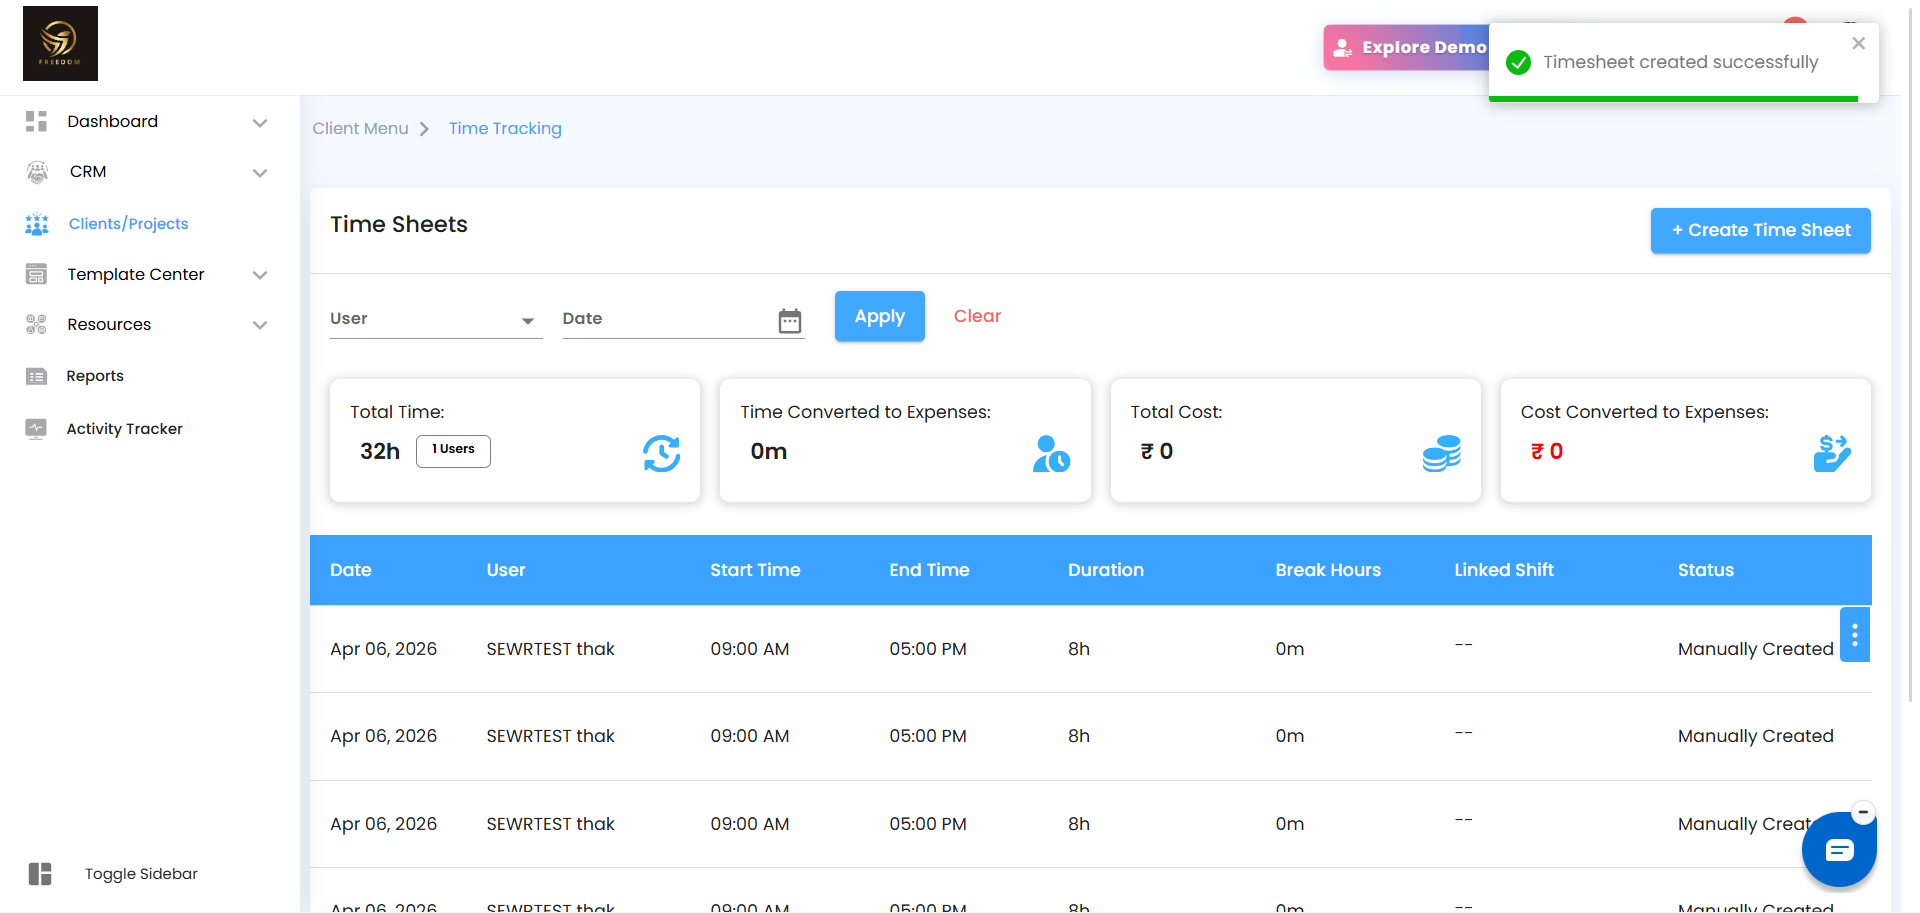
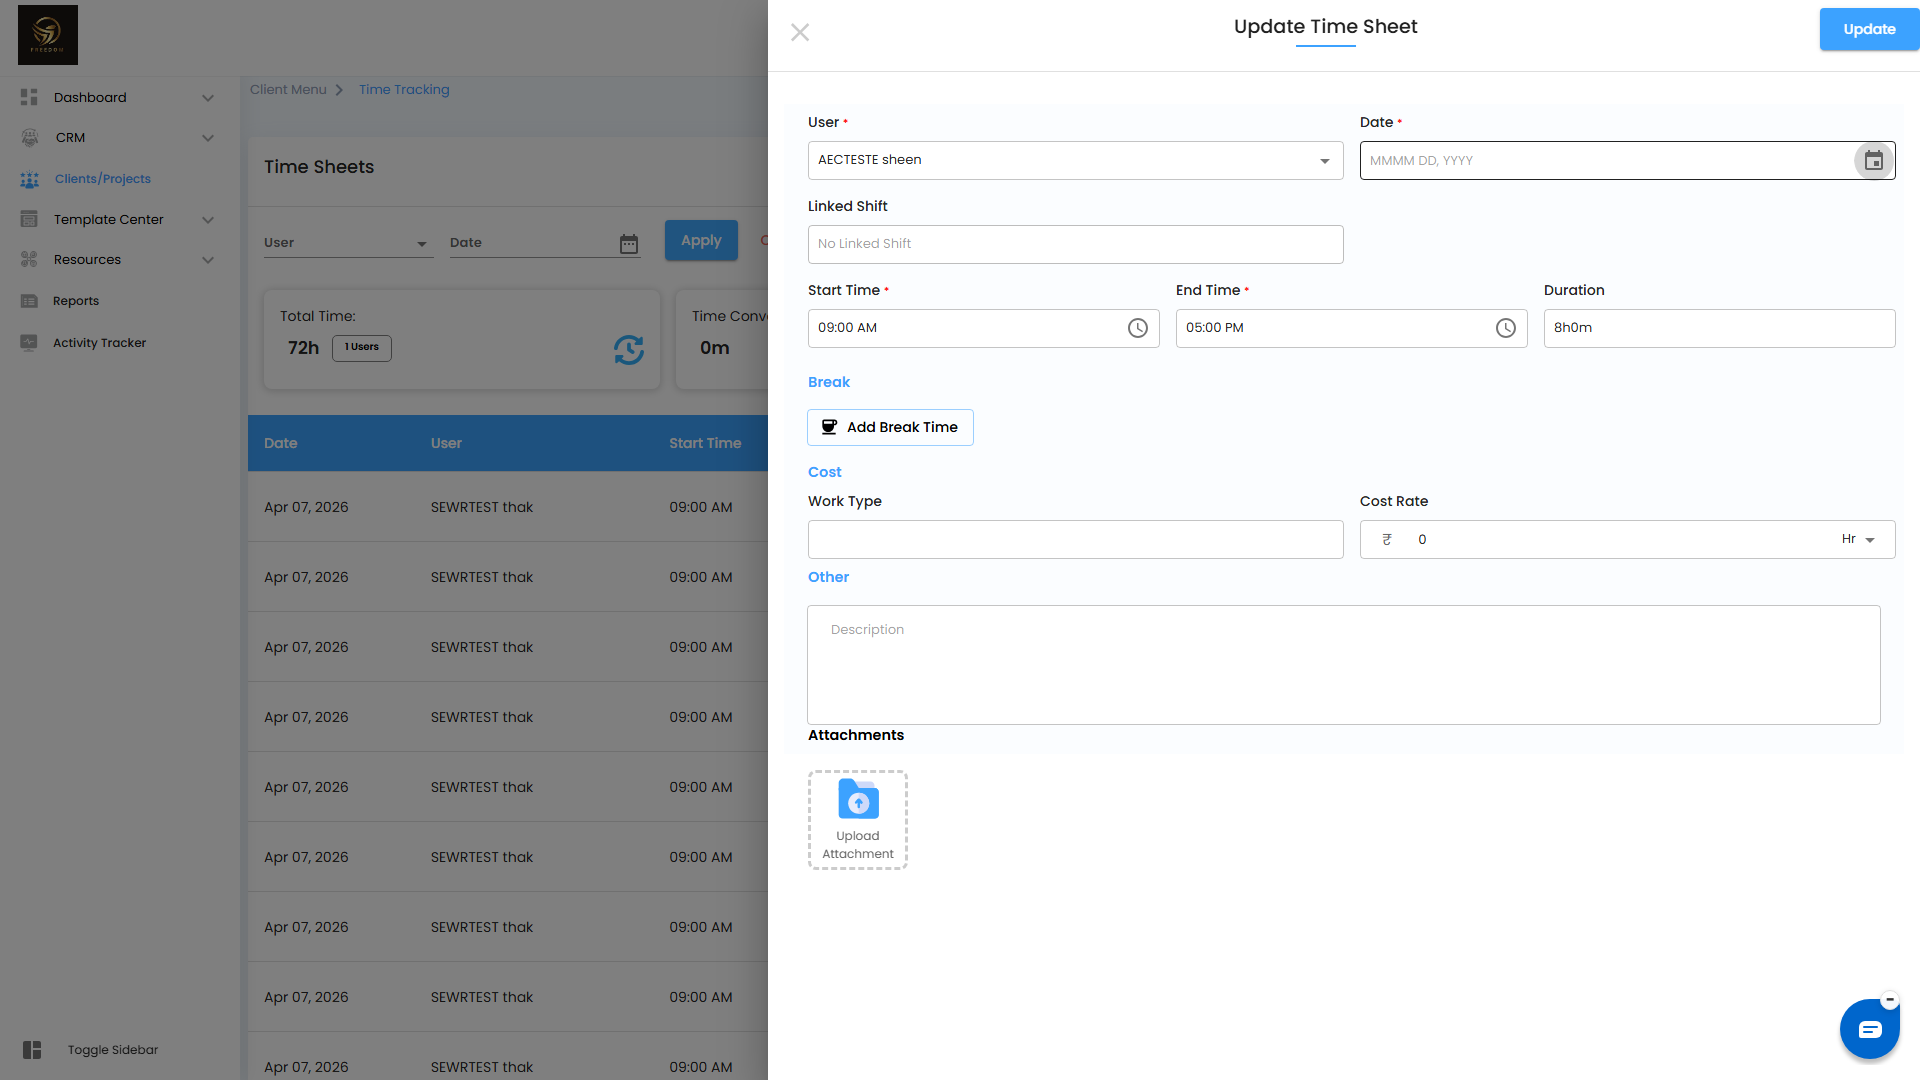
refactor: streamline timesheet editing and update test configurations
- Removed redundant test commands from package.json related to purchase orders.
- Updated the edit_timesheet.feature to clarify the steps for editing a timesheet.
- Enhanced TimeTrackingPage.js with improved selectors for date and time inputs.
- Modified hooks.js to adjust timeout settings and implement screenshot capture on test failures.
- Updated the screenshot for the timesheet editing scenario to reflect recent changes.

diff --git a/pages/admin/projects/managements/timetracking/TimeTrackingPage.js b/pages/admin/projects/managements/timetracking/TimeTrackingPage.js
@@ -25,28 +25,53 @@ class TimeTrackingPage extends BasePage {
 
     // Mandatory fields inside the drawer
     this.productInfoSection = page.locator('section[id="product information"]').first();
-    // User – MUI Select combobox (role="combobox" inside the drawer)
+    // User – MUI Select combobox (role="combobox" inside the section)
     this.userDropdown = this.productInfoSection.locator('[role="combobox"]').first();
-    this.dateInput = page
+
+    // Date/Time inputs can differ between Create drawer vs Edit view (label wiring / aria-labels differ),
+    // so prefer label-based selectors scoped to the section and fall back to the original xpath.
+    const dateByLabel = this.productInfoSection
+      .getByLabel(/date/i)
+      .or(this.productInfoSection.locator('input[name*="date" i], input[id*="date" i]'))
+      .first();
+    const dateByXpath = page
       .locator(
         'xpath=//section[@id="product information"]//*[self::label or self::p or self::span][contains(normalize-space(.),"Date")]/following::input[1]'
       )
       .first();
-    this.startTimeInput = page
+    this.dateInput = dateByLabel.or(dateByXpath).first();
+
+    const startByLabel = this.productInfoSection
+      .getByLabel(/start\s*time/i)
+      .or(this.productInfoSection.locator('input[name*="start" i][type="time"], input[id*="start" i]'))
+      .first();
+    const startByXpath = page
       .locator(
         'xpath=//section[@id="product information"]//*[self::label or self::p or self::span][contains(normalize-space(.),"Start Time")]/following::input[1]'
       )
       .first();
-    this.endTimeInput = page
+    this.startTimeInput = startByLabel.or(startByXpath).first();
+
+    const endByLabel = this.productInfoSection
+      .getByLabel(/end\s*time/i)
+      .or(this.productInfoSection.locator('input[name*="end" i][type="time"], input[id*="end" i]'))
+      .first();
+    const endByXpath = page
       .locator(
         'xpath=//section[@id="product information"]//*[self::label or self::p or self::span][contains(normalize-space(.),"End Time")]/following::input[1]'
       )
       .first();
-    this.datePickerButton = page
+    this.endTimeInput = endByLabel.or(endByXpath).first();
+
+    const dateBtnByAria = this.productInfoSection
+      .locator('button[aria-label*="date" i], button[title*="date" i]')
+      .first();
+    const dateBtnByXpath = page
       .locator(
-        'xpath=//section[@id="product information"]//*[self::label or self::p or self::span][contains(normalize-space(.),"Date")]/following::button[@aria-label="Choose date"][1]'
+        'xpath=//section[@id="product information"]//*[self::label or self::p or self::span][contains(normalize-space(.),"Date")]/following::button[contains(translate(@aria-label,"ABCDEFGHIJKLMNOPQRSTUVWXYZ","abcdefghijklmnopqrstuvwxyz"),"date")][1]'
       )
       .first();
+    this.datePickerButton = dateBtnByAria.or(dateBtnByXpath).first();
 
     // Title of the drawer that opens after selection
     this.drawerTitle = page.locator('h6:has-text("Create Time Sheet")').first();
@@ -62,7 +87,16 @@ class TimeTrackingPage extends BasePage {
 
     // --- Edit / detail (after opening a row) ---
     this.timesheetTableRows = page.locator('tbody tr');
+    this.rowActionButton = page
+      .locator('tbody tr')
+      .first()
+      .locator('button')
+      .last();
     this.actionMenu = page.locator('[role="menu"]').first();
+    this.editMenuItem = page
+      .getByRole('menuitem', { name: /^edit$/i })
+      .or(page.locator('[role="menu"] [role="menuitem"]').filter({ hasText: /^edit$/i }))
+      .first();
     this.saveOrUpdateButton = page
       .getByRole('button', { name: /save|update|apply/i })
       .or(page.locator('.boqUI button.btnPrimaryUI:has-text("Save"), button.btnPrimaryUI:has-text("Update")'))
@@ -82,6 +116,24 @@ class TimeTrackingPage extends BasePage {
     await locator.scrollIntoViewIfNeeded().catch(() => {});
 
     const input = locator.first();
+    const readCurrent = async () => {
+      const v1 = await input.inputValue().catch(() => '');
+      if (v1 && v1.trim()) return v1;
+      const v2 = await input.getAttribute('value').catch(() => '');
+      return (v2 || '').trim();
+    };
+    const normalizeAltDate = async (nextValue) => {
+      const type = ((await input.getAttribute('type').catch(() => '')) || '').toLowerCase();
+      if (type === 'date' && /^\d{2}\/\d{2}\/\d{4}$/.test(nextValue)) {
+        const [mm, dd, yyyy] = nextValue.split('/');
+        return `${yyyy}-${mm}-${dd}`;
+      }
+      if (type !== 'date' && /^\d{4}-\d{2}-\d{2}$/.test(nextValue)) {
+        const [yyyy, mm, dd] = nextValue.split('-');
+        return `${mm}/${dd}/${yyyy}`;
+      }
+      return null;
+    };
     const setByDom = async () => {
       await input.evaluate((el, nextValue) => {
         const nativeInputValueSetter = Object.getOwnPropertyDescriptor(
@@ -89,7 +141,7 @@ class TimeTrackingPage extends BasePage {
           'value'
         )?.set;
         nativeInputValueSetter?.call(el, nextValue);
-        el.dispatchEvent(new InputEvent('input', { bubbles: true, data: nextValue }));
+        el.dispatchEvent(new Event('input', { bubbles: true }));
         el.dispatchEvent(new Event('change', { bubbles: true }));
         el.dispatchEvent(new Event('blur', { bubbles: true }));
       }, value);
@@ -99,23 +151,24 @@ class TimeTrackingPage extends BasePage {
       await input.click({ force: true });
       await input.press('Control+A').catch(() => {});
       await input.fill(value);
+      await input.press('Enter').catch(() => {});
       await input.press('Tab').catch(() => {});
     } catch {
       await setByDom();
     }
 
-    let current = await input.inputValue().catch(() => '');
-    let domVal = await input.evaluate((el) => (el && 'value' in el ? el.value : '') || '').catch(() => '');
-    if (current.trim().length === 0 && String(domVal).trim().length === 0) {
-      await setByDom();
-      current = await input.inputValue().catch(() => '');
-      domVal = await input.evaluate((el) => (el && 'value' in el ? el.value : '') || '').catch(() => '');
-    }
-
     await expect(async () => {
-      const c = await input.inputValue().catch(() => '');
-      const d = await input.evaluate((el) => (el && 'value' in el ? el.value : '') || '').catch(() => '');
-      expect(c.trim().length > 0 || String(d).trim().length > 0).toBeTruthy();
+      const current = await readCurrent();
+      if (current.trim().length > 0) return;
+
+      const alt = await normalizeAltDate(value);
+      if (alt) {
+        await setByDom(alt);
+        const afterAlt = await readCurrent();
+        expect(afterAlt.trim().length).toBeGreaterThan(0);
+        return;
+      }
+      expect(current.trim().length).toBeGreaterThan(0);
     }).toPass({ timeout: 10000, intervals: [300, 700, 1200] });
   }
 
@@ -148,39 +201,21 @@ class TimeTrackingPage extends BasePage {
   }
 
   async tryPickDateFromCalendar(targetDate) {
-    const openCalendar = async () => {
-      if (await this.datePickerButton.isVisible().catch(() => false)) {
-        await this.datePickerButton.click().catch(() => {});
-        return true;
-      }
-      if (await this.dateInput.isVisible().catch(() => false)) {
-        await this.dateInput.click().catch(() => {});
-        return true;
-      }
-      return false;
-    };
-
-    if (!(await openCalendar())) {
+    if (!(await this.datePickerButton.isVisible().catch(() => false))) {
       return false;
     }
-    await this.page.waitForTimeout(400);
-    await this.page
-      .locator('.MuiPickersPopper-root, .MuiPopover-root [role="dialog"], [role="dialog"]')
-      .first()
-      .waitFor({ state: 'visible', timeout: 15000 })
-      .catch(() => {});
+    await this.datePickerButton.click().catch(() => {});
+    await this.page.waitForTimeout(300);
 
     const day = String(targetDate.getDate());
     const dayButton = this.page.getByRole('gridcell', { name: day, exact: true }).first();
     if (await dayButton.isVisible().catch(() => false)) {
       await dayButton.click().catch(() => {});
-      await this.page.waitForTimeout(400);
       return true;
     }
     const dayFallback = this.page.getByRole('button', { name: new RegExp(`^${day}$`) }).first();
     if (await dayFallback.isVisible().catch(() => false)) {
       await dayFallback.click().catch(() => {});
-      await this.page.waitForTimeout(400);
       return true;
     }
     await this.page.keyboard.press('Escape').catch(() => {});
@@ -280,45 +315,15 @@ class TimeTrackingPage extends BasePage {
   }
 
   async isTimesheetCreatedSuccessfully() {
-    await expect(this.drawerTitle).toBeHidden({ timeout: 60000 }).catch(() => {});
-    await this.page.waitForLoadState('networkidle', { timeout: 20000 }).catch(() => {});
-    await this.page.waitForTimeout(500);
-
     try {
-      await this.successToast.waitFor({ state: 'visible', timeout: 20000 });
+      await this.successToast.waitFor({ state: 'visible', timeout: 15000 });
       return await this.successToast.isVisible();
     } catch {
+      // Fallback: check that a new row appeared in the table
       const rows = this.page.locator('tbody tr');
-      await expect(rows.first()).toBeVisible({ timeout: 30000 });
-      return (await rows.count()) > 0;
+      const count = await rows.count();
+      return count > 0;
     }
-  }
-
-  /**
-   * Clicks the row overflow control (MUI three-dots / "more" menu) on the given table row.
-   * @returns {Promise<boolean>} true if the menu opened
-   */
-  async tryClickRowOverflowMenu(row) {
-    const candidates = [
-      row.getByRole('button', { name: /more|open menu|actions|options|menu/i }),
-      row.locator('button[aria-haspopup="true"]'),
-      row.locator('button[aria-label*="more" i]'),
-      row.locator('button').filter({ has: row.locator('svg[data-testid="MoreVertIcon"]') }),
-      row.locator('button').last(),
-    ];
-
-    for (const loc of candidates) {
-      const btn = loc.first();
-      if (!(await btn.isVisible().catch(() => false))) continue;
-      await btn.scrollIntoViewIfNeeded().catch(() => {});
-      await btn.click({ timeout: 10000 }).catch(() => {});
-      await this.page.waitForTimeout(300);
-      if (await this.actionMenu.isVisible().catch(() => false)) {
-        return true;
-      }
-      await this.page.keyboard.press('Escape').catch(() => {});
-    }
-    return false;
   }
 
   /** Open the most recently created row (first row in list; list is usually newest-first). */
@@ -338,27 +343,17 @@ class TimeTrackingPage extends BasePage {
   }
 
   async clickEditOnTimesheet() {
-    await expect(this.drawerTitle).toBeHidden({ timeout: 5000 }).catch(() => {});
-    await this.page.waitForLoadState('networkidle', { timeout: 20000 }).catch(() => {});
-
     const row = this.timesheetTableRows.first();
     await expect(row).toBeVisible({ timeout: this.defaultTimeout });
     await row.scrollIntoViewIfNeeded().catch(() => {});
     await row.hover().catch(() => {});
 
-    const opened = await this.tryClickRowOverflowMenu(row);
-    if (!opened) {
-      throw new Error(
-        'Could not open the row action menu (three dots). Ensure the timesheet list is visible and you did not navigate to a detail page before this step.'
-      );
-    }
+    await expect(this.rowActionButton).toBeVisible({ timeout: this.defaultTimeout });
+    await this.rowActionButton.click();
+    await expect(this.actionMenu).toBeVisible({ timeout: this.defaultTimeout });
 
-    const editItem = this.page
-      .getByRole('menuitem', { name: /edit/i })
-      .or(this.page.locator('[role="menu"] [role="menuitem"]').filter({ hasText: /edit/i }))
-      .first();
-    await expect(editItem).toBeVisible({ timeout: this.defaultTimeout });
-    await editItem.click();
+    await expect(this.editMenuItem).toBeVisible({ timeout: this.defaultTimeout });
+    await this.editMenuItem.click();
     await this.page.waitForTimeout(800);
     await expect(this.productInfoSection).toBeVisible({ timeout: this.defaultTimeout });
   }
@@ -384,7 +379,10 @@ class TimeTrackingPage extends BasePage {
     const dateObj = new Date();
     dateObj.setDate(dateObj.getDate() + Math.min(0, pastDays));
 
-    // Do not open+Escape the date picker here — that closes the calendar before tryPickDateFromCalendar runs.
+    if (await this.datePickerButton.isVisible().catch(() => false)) {
+      await this.datePickerButton.click().catch(() => {});
+      await this.page.keyboard.press('Escape').catch(() => {});
+    }
     const picked = await this.tryPickDateFromCalendar(dateObj);
     if (!picked) {
       const dateType = (await this.dateInput.getAttribute('type').catch(() => '')) || '';

diff --git a/support/hooks.js b/support/hooks.js
@@ -1,69 +1,26 @@
-const { Before, After, AfterStep, setDefaultTimeout } = require('@cucumber/cucumber');
+const { Before, After, AfterAll, setDefaultTimeout } = require('@cucumber/cucumber');
+const fs = require('fs');
+const path = require('path');
+const { closeSharedSession } = require('./world');
 
-/** Default step/scenario timeout (ms) — see AGENTS.md */
-setDefaultTimeout(60000);
+setDefaultTimeout(30000);
 
-/**
- * When running headed (default), pause after each step so actions are visible (debug/demos).
- * Headless (HEADLESS=true or CI=true): no delay. Override with STEP_DELAY_MS (0 disables). Default 2000ms.
- */
-function isHeadlessRun() {
-  return (
-    process.env.HEADLESS === 'true' ||
-    process.env.CI === 'true' ||
-    process.env.HEADED === 'false'
-  );
-}
-
-function getStepDelayMs() {
-  if (isHeadlessRun()) return 0;
-  const raw = process.env.STEP_DELAY_MS;
-  if (raw === '0') return 0;
-  if (raw === undefined || raw === '') return 2000;
-  const n = parseInt(raw, 10);
-  return Number.isFinite(n) && n >= 0 ? n : 2000;
-}
-
-Before(async function (options = {}) {
-  const { pickle } = options;
+Before(async function () {
   await this.init();
-  this.poSmokeStepPause = !!pickle?.tags?.some((t) =>
-    ['@po-smoke-po', '@po-smoke-full-journey', '@po-full-flow'].includes(t.name)
-  );
 });
 
-AfterStep(async function () {
-  const ms = getStepDelayMs();
-  if (ms > 0 && this.page) {
-    await this.page.waitForTimeout(ms);
+After(async function (scenario) {
+  if (scenario.result.status === 'FAILED' && this.page) {
+    const screenshotDir = path.join(process.cwd(), 'screenshots');
+    const safeName = scenario.pickle.name.replace(/[<>:"/\\|?*]+/g, '_');
+    fs.mkdirSync(screenshotDir, { recursive: true });
+    await this.page.screenshot({
+      path: path.join(screenshotDir, `${safeName}.png`)
+    });
   }
-});
-
-After(async function () {
   await this.cleanup();
 });
 
-/**
- * After each step in @po-smoke-full-journey (or legacy @po-smoke-po) or @po-full-flow: pause for headed runs.
- * PO_FLOW_STEP_PAUSE_MS: milliseconds (0 = off). If unset and HEADED=true, default 800ms.
- */
-AfterStep(async function () {
-  if (!this.poSmokeStepPause || !this.page) {
-    return;
-  }
-  let ms;
-  if (
-    process.env.PO_FLOW_STEP_PAUSE_MS !== undefined &&
-    process.env.PO_FLOW_STEP_PAUSE_MS !== ''
-  ) {
-    ms = Number(process.env.PO_FLOW_STEP_PAUSE_MS);
-  } else if (process.env.HEADED === 'true') {
-    ms = 800;
-  } else {
-    ms = 0;
-  }
-  if (!Number.isFinite(ms) || ms <= 0) {
-    return;
-  }
-  await this.page.waitForTimeout(ms);
+AfterAll(async function () {
+  await closeSharedSession();
 });
